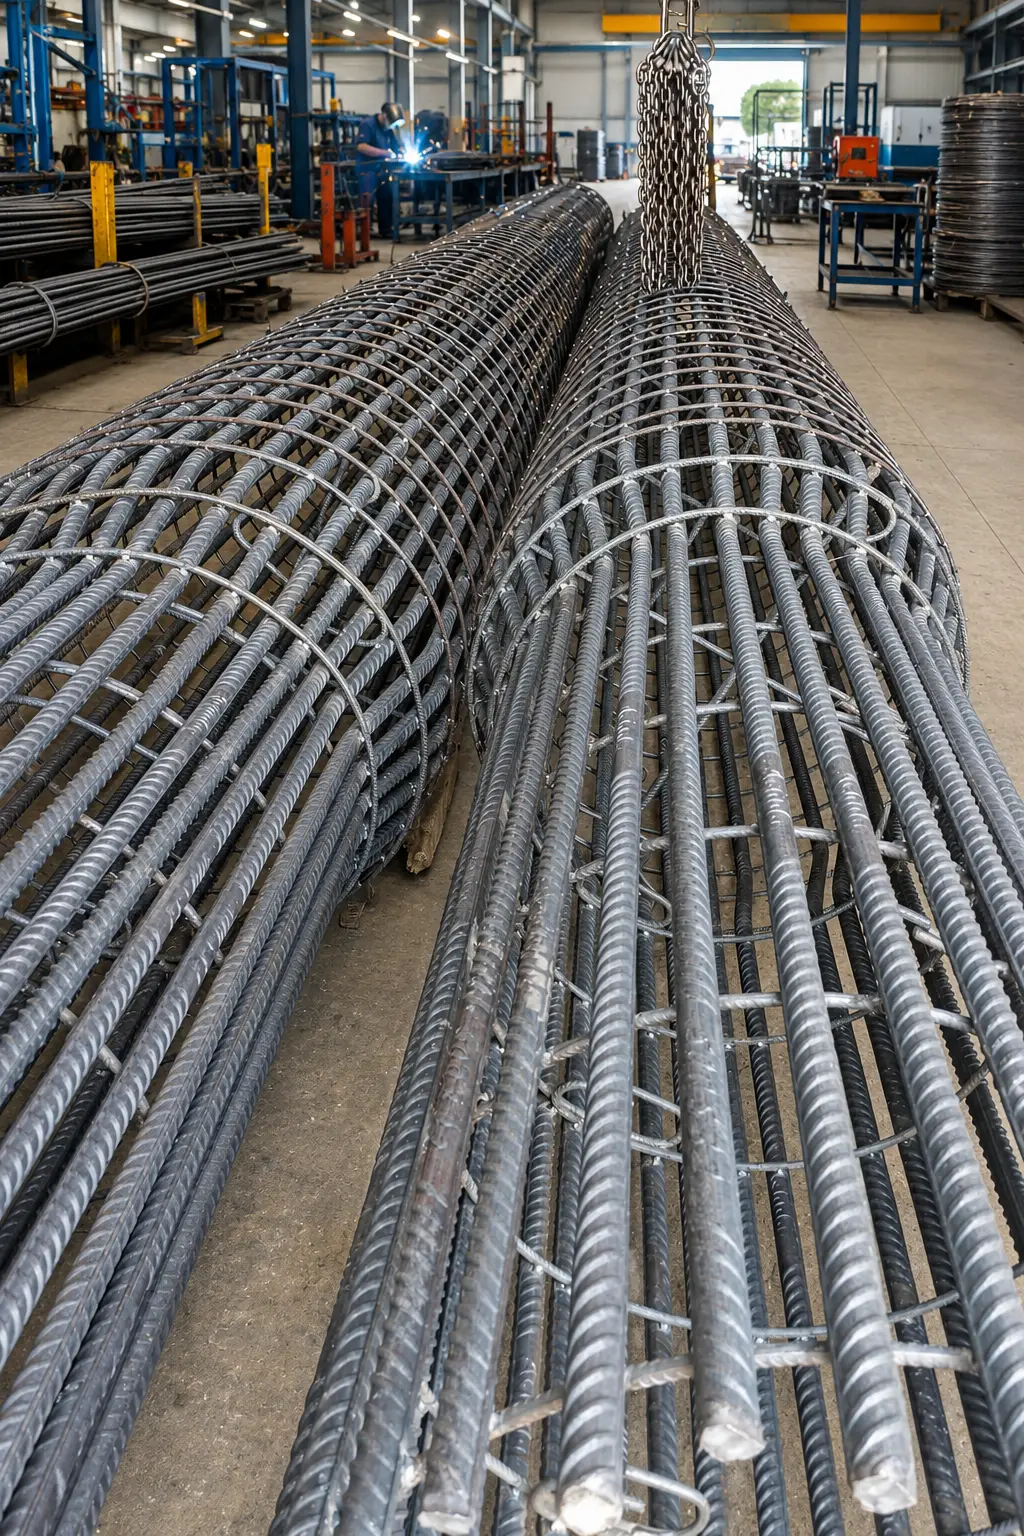
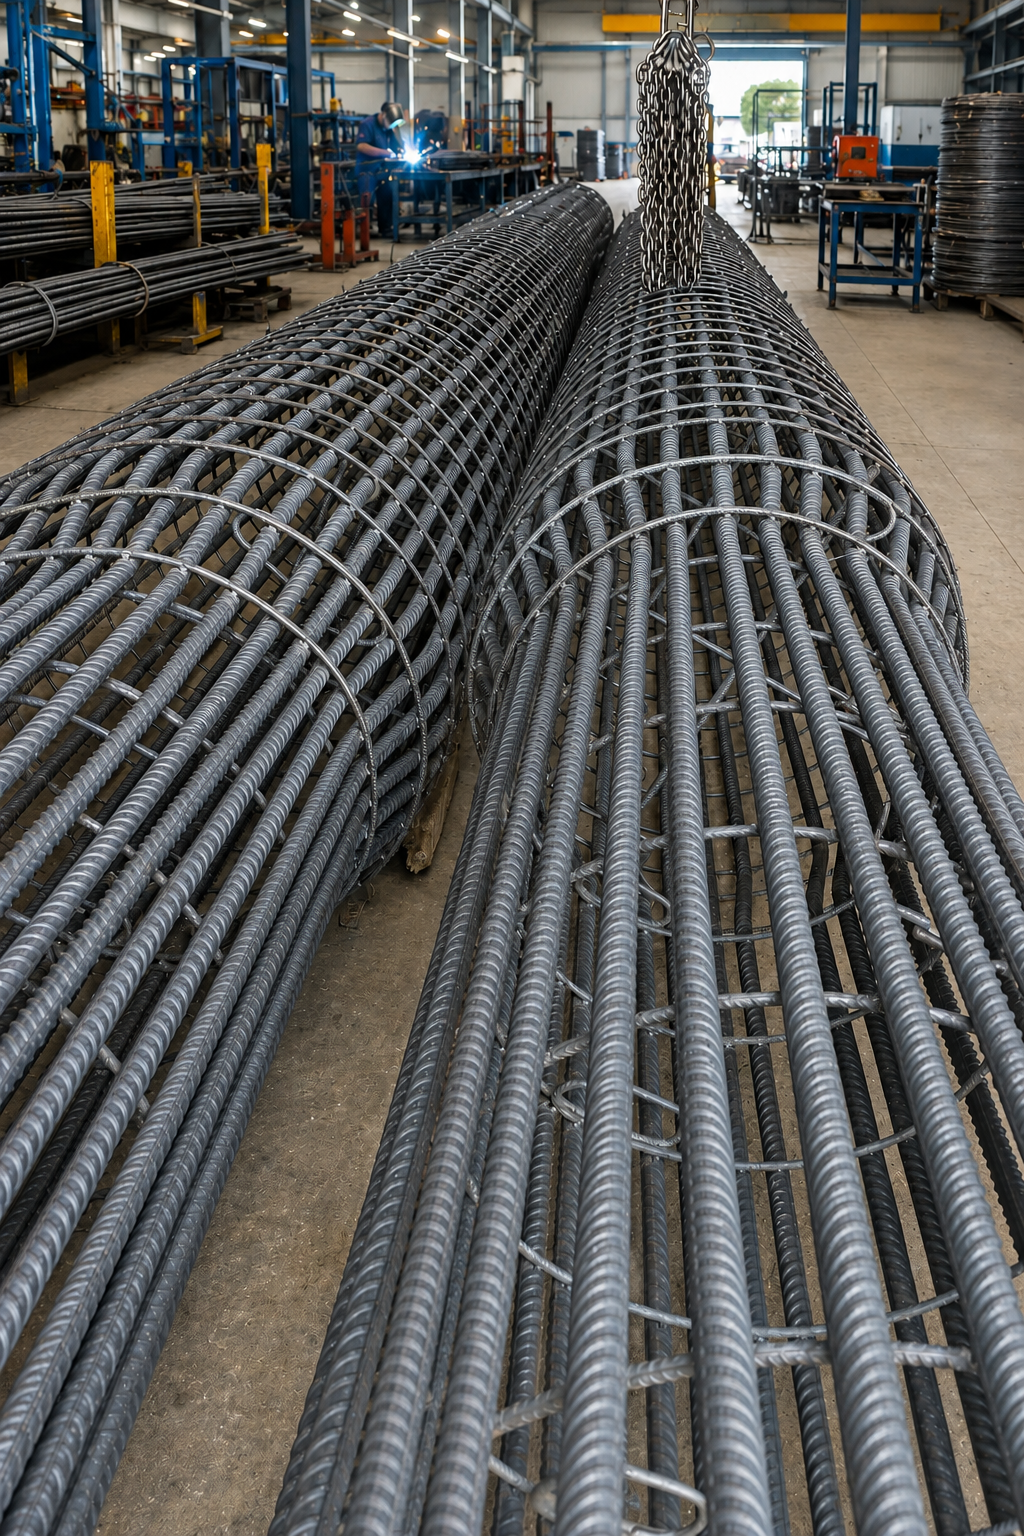
Revision 31/07: textos de productos, tipografia de Sobre Nosotros y unificacion de fuentes
- Armaduras de pilotes: nuevo texto principal en Home + foto Pilotes3 retocada
- Pasadores: "Cortes exactos" -> "Medidas exactas" + nueva ventaja "Extremos de corte limpio, sin rebabas"
- Trelizas: nueva descripcion y los 3 bullets segun designacion de origen
- Sobre Nosotros: titulos mas grandes y con mas peso, descripciones un punto mas chicas,
  espacio titulo-descripcion parejo y anclado arriba (se saca el space-between)
- Fuentes: se elimina PPObjectSans y se unifica todo a Inter + Geist Mono.
  Se quitan Outfit, Anton, Poppins, Roboto y Bona Nova (Anton y Outfit se descargaban
  de Google Fonts sin uso real)

diff --git a/src/pages/about/About.jsx b/src/pages/about/About.jsx
@@ -211,8 +211,7 @@ export const About = () => {
                 <Box
                   display={"flex"}
                   flexDirection={"column"}
-                  justifyContent={{ xs: "flex-start", md: "space-between" }}
-                  height={{ sm: "60%", md: "70%", xl: "80%" }}
+                  justifyContent="flex-start"
                   // Menos espacio arriba para que el título quede más centrado
                   paddingTop={{ xs: "16px", sm: "24px", md: "28px", xl: "36px" }}
                   paddingBottom={{ xs: "25px", sm: "50px", md: "60px", xl: "80px" }}
@@ -222,20 +221,20 @@ export const About = () => {
                     className="subtitle"
                     variant="h2"
                     fontSize={{ xs: "22px", md: "27px", xl: "36px" }}
-                    sx={{ fontFamily: "Inter, sans-serif", fontWeight: 400 }}
+                    sx={{ fontFamily: "Inter, sans-serif", fontWeight: 500 }}
                   >
                     {section.content.title}
                   </Typography>
 
-                  <Box sx={{ mt: 3 }}>
+                  <Box sx={{ mt: 5 }}>
                     {section.content.paragraphs.map((item, i) => (
                       <Typography
                         key={i}
                         component="p"
-                        fontSize={{ xs: "18px", md: "24px", xl: "28px" }}
+                        fontSize={{ xs: "16px", md: "19px", xl: "22px" }}
                         sx={{
                           color: "#fff",
-                          lineHeight: 1.2,
+                          lineHeight: 1.45,
                           marginBottom: "16px",
                           fontWeight: 300,
                           opacity: 0.9,
@@ -272,8 +271,7 @@ export const About = () => {
                 <Box
                   display={"flex"}
                   flexDirection={"column"}
-                  justifyContent={{ xs: "flex-start", md: "space-between" }}
-                  height={{ md: "70%", xl: "80%" }}
+                  justifyContent="flex-start"
                   // Menos espacio arriba para que el título quede más centrado
                   paddingTop={{ xs: "16px", sm: "24px", md: "28px", xl: "36px" }}
                   paddingBottom={{ xs: "25px", sm: "50px", md: "60px", xl: "80px" }}
@@ -283,20 +281,20 @@ export const About = () => {
                     className="subtitle"
                     variant="h2"
                     fontSize={{ xs: "22px", md: "27px", xl: "36px" }}
-                    sx={{ fontFamily: "Inter, sans-serif", fontWeight: 400 }}
+                    sx={{ fontFamily: "Inter, sans-serif", fontWeight: 500 }}
                   >
                     {section.content.title}
                   </Typography>
 
-                  <Box sx={{ mt: 3 }}>
+                  <Box sx={{ mt: 5 }}>
                     {section.content.paragraphs.map((item, i) => (
                       <Typography
                         key={i}
                         component="p"
-                        fontSize={{ xs: "18px", md: "24px", xl: "28px" }}
+                        fontSize={{ xs: "16px", md: "19px", xl: "22px" }}
                         sx={{
                           color: "#fff",
-                          lineHeight: 1.2,
+                          lineHeight: 1.45,
                           marginBottom: "16px",
                           fontWeight: 300,
                           opacity: 0.9,

diff --git a/src/pages/ProductServicePage/ProductServicePage.jsx b/src/pages/ProductServicePage/ProductServicePage.jsx
@@ -62,7 +62,7 @@ const modalInfo = {
     items: [
       { "title": "Rapidez y productividad", "content": "Mayor rapidez y productividad con reducción de tiempos de obra.", "image": "/images/pasadores3.webp", "alt": "Pasadores Aceros Paisano" },
       { "title": "Calidad de su armadura", "content": "Acero liso AL-220 producido bajo la norma UNIT 34:95.", "image": "/images/pasadores.webp", "alt": "Barras lisas AL-220" },
-      { "title": "Cortes exactos", "content": "Corte a medida según plano o pliego técnico, con cero desperdicio.", "image": "/images/pasadores2.webp", "alt": "Corte de precisión" },
+      { "title": "Medidas exactas", "content": "Corte a medida según plano o pliego técnico, con extremos de corte limpio, sin rebabas.", "image": "/images/pasadores2.webp", "alt": "Corte de precisión" },
       { "title": "Menor costo financiero", "content": "Reducción del espacio en obra y menor costo financiero.", "image": "/images/pasadores3.webp", "alt": "Optimización en obra" },
       { "title": "Asistencia Técnica", "content": "Asesoramiento y seguimiento permanente de nuestros técnicos.", "image": "/images/pasadores.webp", "alt": "Soporte técnico" }
     ]
@@ -72,9 +72,9 @@ const modalInfo = {
     items: [
       { "title": "Rigidez estructural", "content": "Estructura triangular de tres cordones unidos por diagonales electrosoldadas.", "image": "/images/trelizas.webp", "alt": "Trelizas electrosoldadas" },
       { "title": "Prefabricados", "content": "Ideales para prelosas, viguetas y elementos premoldeados.", "image": "/images/trelizasss.webp", "alt": "Trelizas en paquete" },
-      { "title": "Medidas a pedido", "content": "Alturas y largos fabricados según las necesidades del proyecto.", "image": "/images/trelizas5.webp", "alt": "Medidas a medida" },
-      { "title": "Manipulación segura", "content": "Aportan rigidez durante el transporte, la manipulación y el hormigonado.", "image": "/images/trelizas6.webp", "alt": "Transporte y montaje" },
-      { "title": "Asistencia Técnica", "content": "Asesoramiento y seguimiento permanente de nuestros técnicos.", "image": "/images/trelizas.webp", "alt": "Soporte técnico" }
+      { "title": "Medidas estándar", "content": "Altura y largos estándar de acuerdo a designación de origen.", "image": "/images/trelizas5.webp", "alt": "Medidas estándar" },
+      { "title": "Racionalización", "content": "Racionalización en la ejecución.", "image": "/images/trelizas6.webp", "alt": "Racionalización en obra" },
+      { "title": "Rapidez de montaje", "content": "Mayor rapidez de montaje.", "image": "/images/trelizas.webp", "alt": "Montaje rápido" }
     ]
   }
 };

diff --git a/src/pages/home/Home.jsx b/src/pages/home/Home.jsx
@@ -590,7 +590,7 @@ export const Home = () => {
             }}
             className="catalogue-section"
           >
-            <Typography variant="h1" sx={{ maxWidth: "none", whiteSpace: "nowrap", fontFamily: '"Inter", "Helvetica Neue", Helvetica, Arial, sans-serif', fontSize: { xs: "14px", md: "20px" }, fontWeight: "400", letterSpacing: "0.01em", lineHeight: "1.3", marginBottom: "20px" }} className="catalogue-description">
+            <Typography variant="h1" sx={{ maxWidth: "none", whiteSpace: "nowrap", fontFamily: '"Inter", sans-serif', fontSize: { xs: "14px", md: "20px" }, fontWeight: "400", letterSpacing: "0.01em", lineHeight: "1.3", marginBottom: "20px" }} className="catalogue-description">
               Desde 2010 apoyando a la industria nacional
             </Typography>
             <Box className="catalogue-button-wrapper" sx={{ paddingRight: { xs: "12px", md: "20px" } }}>
@@ -873,7 +873,7 @@ export const Home = () => {
               title: "Armaduras de Pilotes",
               image: "/images/Pilotes2.webp",
               description:
-                "Jaulas de acero bajo norma UNIT 843:95, con fabricación automatizada de precisión milimétrica y cero desperdicio.",
+                "Jaulas de acero fabricadas industrialmente que garantizan la precisión milimétrica y eliminan el desperdicio en la obra.",
             },
             {
               slug: "pasadores",
@@ -1243,7 +1243,7 @@ export const Home = () => {
               image: "/images/trelizasss.webp",
               isNew: true,
               description:
-                "Armaduras triangulares electrosoldadas de tres cordones de acero unidos por diagonales. Aportan rigidez a prelosas, viguetas y elementos premoldeados durante la manipulación, el transporte y el hormigonado.",
+                "Armaduras de sección triangular, electrosoldadas, para uso en prelosas, viguetas y elementos premoldeados.",
             },
             {
               slug: "hierro-cortado-y-doblado",

diff --git a/src/pages/notfound/Notfound.jsx b/src/pages/notfound/Notfound.jsx
@@ -55,7 +55,7 @@ export default function NotFound() {
         >
           <Typography
             sx={{
-              fontFamily: "Poppins, Inter, sans-serif",
+              fontFamily: "Inter, sans-serif",
               fontSize: { xs: "12px", md: "14px", lg: "16px" },
               fontWeight: 500,
               lineHeight: 1.35,
@@ -76,7 +76,7 @@ export default function NotFound() {
             sx={{
               color: "#fff",
               textTransform: "none",
-              fontFamily: "Poppins, Inter, sans-serif",
+              fontFamily: "Inter, sans-serif",
               fontSize: { xs: "12px", md: "12px", lg: "13px" },
               fontWeight: 400,
               p: 0,
@@ -121,7 +121,7 @@ export default function NotFound() {
             top: { xs: "44%", sm: "44%", md: "46%" },
             transform: "translate(-50%, -50%)",
 
-            fontFamily: "Poppins, Inter, sans-serif",
+            fontFamily: "Inter, sans-serif",
             fontWeight: 600,
 
             // ✅ Más chico que antes (más parecido a la 2da imagen)
@@ -155,7 +155,7 @@ export default function NotFound() {
         >
           <Typography
             sx={{
-              fontFamily: "Poppins, Inter, sans-serif",
+              fontFamily: "Inter, sans-serif",
               fontWeight: 400,
 
               // ✅ Reducido respecto a tu versión anterior (que estaba muy grande)
@@ -183,7 +183,7 @@ export default function NotFound() {
               mt: { xs: 1.6, md: 2.0 },
               color: "rgba(255,255,255,0.95)",
               textTransform: "none",
-              fontFamily: "Poppins, Inter, sans-serif",
+              fontFamily: "Inter, sans-serif",
               fontSize: { xs: "12px", md: "12px", lg: "13px" },
               fontWeight: 400,
               p: 0,

diff --git a/src/pages/about/About.css b/src/pages/about/About.css
@@ -1,23 +1,10 @@
 @import url('https://fonts.googleapis.com/css2?family=Inter:wght@300;400;500;600;700&display=swap');
 
-@font-face {
-  font-family: "PPObjectSans";
-  src: url("./fonts/PPObjectSans-Regular.otf") format("opentype");
-  font-weight: 400;
-  font-style: normal;
-}
-
-/* Si NO tenés el bold real, esto ayuda a que el browser “fabrique” el bold */
-.about,
-.about * {
-  font-synthesis: weight;
-}
-
 .about {
   background: #000;
   color: white;
   overflow-x: hidden;
-  font-family: "PPObjectSans", Arial, sans-serif;
+  font-family: "Inter", sans-serif;
 
   /* ✅ VARIABLES GLOBALES de la vista (se heredan a hero y secciones)
      --margin-x:      distancia de las líneas de margen al borde de la página
@@ -140,7 +127,7 @@
 
 .about-hero__headline {
   margin: 0;
-  font-family: "Inter", "Helvetica Neue", Helvetica, Arial, sans-serif;
+  font-family: "Inter", sans-serif;
   font-size: clamp(30px, 4.2vw, 52px);
   font-weight: 400;
   letter-spacing: -0.03em;
@@ -422,12 +409,12 @@
 }
 
 .subtitle {
-  font-size: clamp(20px, 2.2vw, 28px) !important;
-  font-weight: 400 !important;
+  font-size: clamp(24px, 2.4vw, 34px) !important;
+  font-weight: 500 !important;
   letter-spacing: -0.03em;
   margin-bottom: 5px;
   text-transform: none;
-  font-family: "Inter", "Helvetica Neue", Helvetica, Arial, sans-serif !important;
+  font-family: "Inter", sans-serif !important;
 }
 
 .line-wrapper {

diff --git a/src/components/carousel/SlidingContainers.css b/src/components/carousel/SlidingContainers.css
@@ -1,12 +1,4 @@
 /* SlidingContainers.css */
-/* 
-  Move this <link> to your index.html <head> instead of @import here.
-  This way the font loads in parallel rather than in a chain.
-
-  <link rel="preconnect" href="https://fonts.googleapis.com">
-  <link rel="preconnect" href="https://fonts.gstatic.com" crossorigin>
-  <link href="https://fonts.googleapis.com/css2?family=Outfit:wght@300;400;500;600&display=swap" rel="stylesheet">
-*/
 
 @keyframes slider-scroll {
     to {
@@ -18,7 +10,7 @@
     width: 100vw;
     max-width: 100vw;
     overflow: hidden;
-    font-family: 'Outfit', sans-serif;
+    font-family: 'Inter', sans-serif;
     margin-left: calc(-50vw + 50%);
     margin-right: calc(-50vw + 50%);
 }
@@ -64,7 +56,7 @@
 }
 
 .sliderItem h3 {
-    font-family: 'Outfit', sans-serif;
+    font-family: 'Inter', sans-serif;
     font-size: 1.4rem;
     line-height: 1.75rem;
     font-weight: 600;

diff --git a/index.html b/index.html
@@ -45,7 +45,7 @@
 
   <!-- Consolidated Font List (Adding Geist Mono here) -->
   <link rel="stylesheet"
-    href="https://fonts.googleapis.com/css2?family=Geist+Mono:wght@400;500;600;700&family=Anton&family=Outfit:wght@100;200;300;400;500;600;700;800;900&family=Inter:wght@300;400;500;600;700&display=swap">
+    href="https://fonts.googleapis.com/css2?family=Geist+Mono:wght@400;500;600;700&family=Inter:wght@300;400;500;600;700&display=swap">
   <title>Aceros Paisano | Soluciones de Acero para la Construcción</title>
 
   <style>
@@ -61,14 +61,6 @@
       min-height: 100vh;
     }
 
-    .font-outfit {
-      font-family: 'Outfit', sans-serif;
-    }
-
-    .interact-item {
-      font-family: 'Anton', sans-serif;
-      font-display: swap;
-    }
   </style>
 
   <!-- JSON-LD Structured Data -->

diff --git a/src/pages/ProductDetail/ProductDetail.css b/src/pages/ProductDetail/ProductDetail.css
@@ -3,10 +3,9 @@
    ============================================ */
 
 @import url('https://fonts.googleapis.com/css2?family=Geist+Mono:wght@400;500;600;700&display=swap');
-@import url('https://fonts.googleapis.com/css2?family=Roboto:wght@300;400;500;700&display=swap');
 
 .product-detail-wrapper {
-  --font-sans: 'Roboto', -apple-system, BlinkMacSystemFont, 'Inter', sans-serif;
+  --font-sans: 'Inter', -apple-system, BlinkMacSystemFont, sans-serif;
   --font-mono: 'Geist Mono', 'SF Mono', 'Courier New', monospace;
   --page-bg: #E9E5E6;
   --panel: #f6f2ef;

diff --git a/src/components/parallaxBox/ParallaxBox.jsx b/src/components/parallaxBox/ParallaxBox.jsx
@@ -43,7 +43,7 @@ export default function ParallaxBox({ image, title, titleColor, titleLeft = "2%"
     >
       {title && (
         <Box position="absolute" left={titleLeft} bottom={titleBottom} zIndex={1}>
-          <Typography variant="h2" fontSize={{ xs: "75px", md: "200px", xl: "200px" }} fontFamily={"Bona Nova SC"} color={titleColor}>{title}</Typography>
+          <Typography variant="h2" fontSize={{ xs: "75px", md: "200px", xl: "200px" }} fontFamily={"Inter, sans-serif"} color={titleColor}>{title}</Typography>
 
         </Box>
       )}

diff --git a/src/components/footer/Footer.jsx b/src/components/footer/Footer.jsx
@@ -43,7 +43,7 @@ export const Footer = () => {
 
   // ✅ Inter para todos los textos normales (reemplaza Roboto)
   const sansFontFamily =
-    '"Inter", -apple-system, BlinkMacSystemFont, "Segoe UI", Helvetica, Arial, sans-serif';
+    '"Inter", -apple-system, BlinkMacSystemFont, "Segoe UI", sans-serif';
 
   // ✅ Geist Mono se mantiene SOLO para labels / monospace
   const monoFontFamily =

diff --git a/src/pages/ProductDetail/ProductDetail.jsx b/src/pages/ProductDetail/ProductDetail.jsx
@@ -505,7 +505,8 @@ const productsData = {
       'Mayor rapidez y productividad',
       'Calidad de su armadura',
       'Reducción de tiempos de obra',
-      'Cortes exactos',
+      'Medidas exactas',
+      'Extremos de corte limpio, sin rebabas',
       'Menor costo financiero',
       'Reducción del espacio en obra',
       'Cero desperdicio',

diff --git a/src/pages/home/Home-performance.css b/src/pages/home/Home-performance.css
@@ -432,7 +432,7 @@
 .home-container,
 .about-intro,
 .line {
-  font-family: 'Inter', -apple-system, BlinkMacSystemFont, "Segoe UI", Roboto, sans-serif !important;
+  font-family: 'Inter', -apple-system, BlinkMacSystemFont, "Segoe UI", sans-serif !important;
   -webkit-font-smoothing: antialiased;
   -moz-osx-font-smoothing: grayscale;
 }
